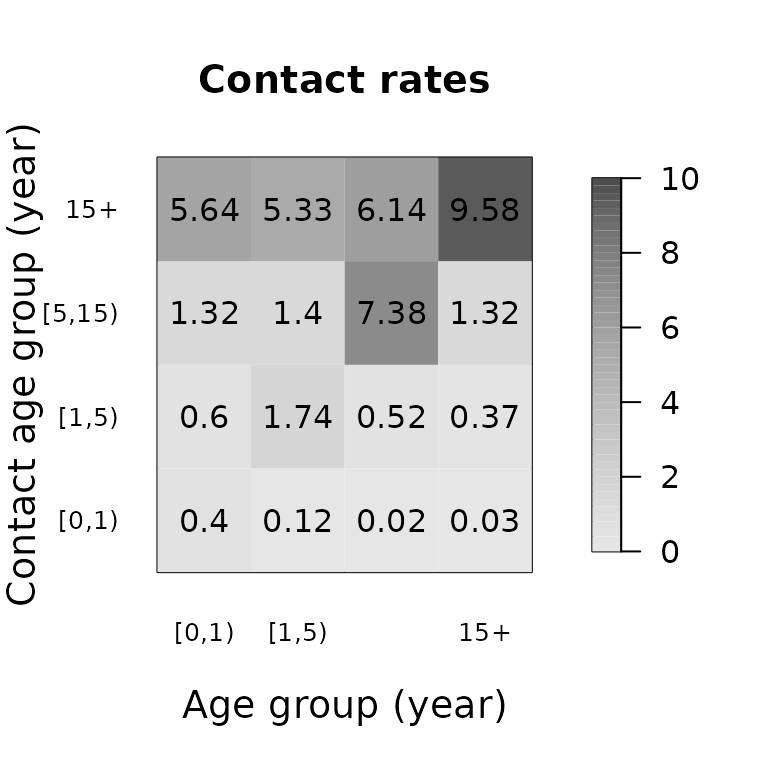
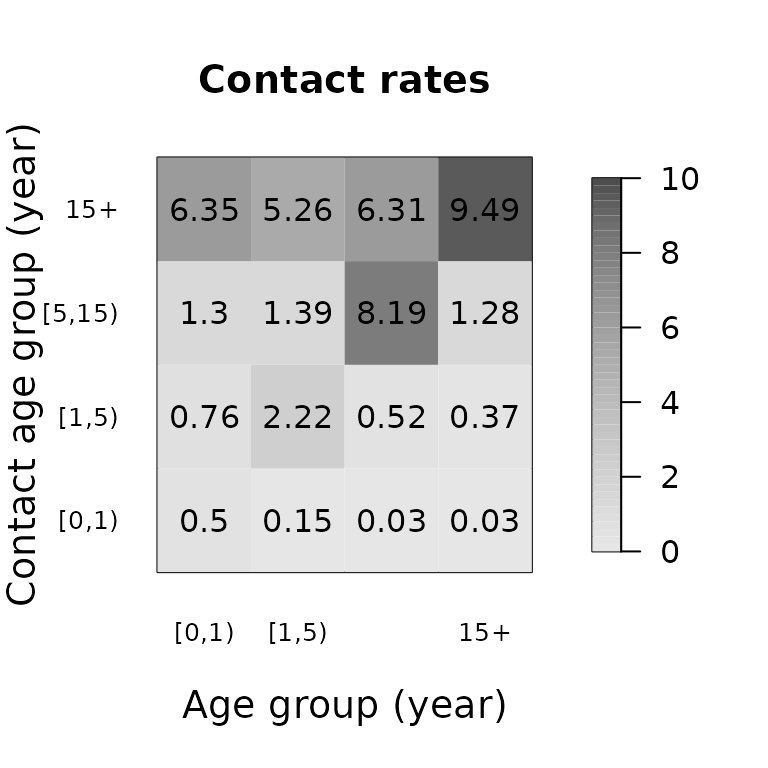
Deploying to gh-pages from @ epiforecasts/socialmixr@10c6d8eac6b71769eb7b5eaee1a3d25b09b19b66 🚀

diff --git a/articles/socialmixr.html b/articles/socialmixr.html
@@ -72,7 +72,7 @@
                         <h4 data-toc-skip class="author">Sebastian
 Funk</h4>
             
-            <h4 data-toc-skip class="date">2024-01-22</h4>
+            <h4 data-toc-skip class="date">2024-01-25</h4>
       
       <small class="dont-index">Source: <a href="https://github.com/epiforecasts/socialmixr/blob/HEAD/vignettes/socialmixr.Rmd" class="external-link"><code>vignettes/socialmixr.Rmd</code></a></small>
       <div class="d-none name"><code>socialmixr.Rmd</code></div>
@@ -118,7 +118,6 @@ using</p>
 <p>An example use would be</p>
 <div class="sourceCode" id="cb7"><pre class="downlit sourceCode r">
 <code class="sourceCode R"><span><span class="fu"><a href="../reference/contact_matrix.html">contact_matrix</a></span><span class="op">(</span><span class="va">polymod</span>, countries <span class="op">=</span> <span class="st">"United Kingdom"</span>, age.limits <span class="op">=</span> <span class="fu"><a href="https://rdrr.io/r/base/c.html" class="external-link">c</a></span><span class="op">(</span><span class="fl">0</span>, <span class="fl">1</span>, <span class="fl">5</span>, <span class="fl">15</span><span class="op">)</span><span class="op">)</span></span>
-<span><span class="co">#&gt; Using POLYMOD social contact data. To cite this in a publication, use the 'get_citation()' function</span></span>
 <span><span class="co">#&gt; Removing participants that have contacts without age information. To change this behaviour, set the 'missing.contact.age' option</span></span>
 <span><span class="co">#&gt; $matrix</span></span>
 <span><span class="co">#&gt;          contact.age.group</span></span>
@@ -211,24 +210,19 @@ be obtained, for example the mean:</p>
 <span>    sample.participants <span class="op">=</span> <span class="cn">TRUE</span></span>
 <span>  <span class="op">)</span></span>
 <span><span class="op">)</span></span>
-<span><span class="co">#&gt; Using POLYMOD social contact data. To cite this in a publication, use the 'get_citation()' function</span></span>
 <span><span class="co">#&gt; Removing participants that have contacts without age information. To change this behaviour, set the 'missing.contact.age' option</span></span>
-<span><span class="co">#&gt; Using POLYMOD social contact data. To cite this in a publication, use the 'get_citation()' function</span></span>
 <span><span class="co">#&gt; Removing participants that have contacts without age information. To change this behaviour, set the 'missing.contact.age' option</span></span>
-<span><span class="co">#&gt; Using POLYMOD social contact data. To cite this in a publication, use the 'get_citation()' function</span></span>
 <span><span class="co">#&gt; Removing participants that have contacts without age information. To change this behaviour, set the 'missing.contact.age' option</span></span>
-<span><span class="co">#&gt; Using POLYMOD social contact data. To cite this in a publication, use the 'get_citation()' function</span></span>
 <span><span class="co">#&gt; Removing participants that have contacts without age information. To change this behaviour, set the 'missing.contact.age' option</span></span>
-<span><span class="co">#&gt; Using POLYMOD social contact data. To cite this in a publication, use the 'get_citation()' function</span></span>
 <span><span class="co">#&gt; Removing participants that have contacts without age information. To change this behaviour, set the 'missing.contact.age' option</span></span>
 <span><span class="va">mr</span> <span class="op">&lt;-</span> <span class="fu"><a href="https://rdrr.io/r/base/funprog.html" class="external-link">Reduce</a></span><span class="op">(</span><span class="st">"+"</span>, <span class="fu"><a href="https://rdrr.io/r/base/lapply.html" class="external-link">lapply</a></span><span class="op">(</span><span class="va">m</span><span class="op">[</span><span class="st">"matrix"</span>, <span class="op">]</span>, <span class="kw">function</span><span class="op">(</span><span class="va">x</span><span class="op">)</span> <span class="va">x</span> <span class="op">/</span> <span class="fu"><a href="https://rdrr.io/r/base/nrow.html" class="external-link">ncol</a></span><span class="op">(</span><span class="va">m</span><span class="op">)</span><span class="op">)</span><span class="op">)</span></span>
 <span><span class="va">mr</span></span>
 <span><span class="co">#&gt;          contact.age.group</span></span>
 <span><span class="co">#&gt; age.group      [0,1)     [1,5)   [5,15)      15+</span></span>
-<span><span class="co">#&gt;    [0,1)  0.40047233 0.5985560 1.322524 5.638421</span></span>
-<span><span class="co">#&gt;    [1,5)  0.12096243 1.7365368 1.396358 5.326786</span></span>
-<span><span class="co">#&gt;    [5,15) 0.01819316 0.5207887 7.383902 6.138165</span></span>
-<span><span class="co">#&gt;    15+    0.02680394 0.3705660 1.321939 9.577358</span></span></code></pre></div>
+<span><span class="co">#&gt;    [0,1)  0.50199792 0.7575980 1.301619 6.347074</span></span>
+<span><span class="co">#&gt;    [1,5)  0.14705727 2.2156738 1.388251 5.264611</span></span>
+<span><span class="co">#&gt;    [5,15) 0.02763151 0.5207851 8.190713 6.305660</span></span>
+<span><span class="co">#&gt;    15+    0.03009622 0.3665507 1.282881 9.491321</span></span></code></pre></div>
 </div>
 <div class="section level2">
 <h2 id="demography">Demography<a class="anchor" aria-label="anchor" href="#demography"></a>
@@ -279,7 +273,6 @@ to obtain a symmetric contact matrix that fulfills it, one can use</p>
 <code><a href="../reference/contact_matrix.html">contact_matrix()</a></code> function.</p>
 <div class="sourceCode" id="cb15"><pre class="downlit sourceCode r">
 <code class="sourceCode R"><span><span class="fu"><a href="../reference/contact_matrix.html">contact_matrix</a></span><span class="op">(</span><span class="va">polymod</span>, countries <span class="op">=</span> <span class="st">"United Kingdom"</span>, age.limits <span class="op">=</span> <span class="fu"><a href="https://rdrr.io/r/base/c.html" class="external-link">c</a></span><span class="op">(</span><span class="fl">0</span>, <span class="fl">1</span>, <span class="fl">5</span>, <span class="fl">15</span><span class="op">)</span>, symmetric <span class="op">=</span> <span class="cn">TRUE</span><span class="op">)</span></span>
-<span><span class="co">#&gt; Using POLYMOD social contact data. To cite this in a publication, use the 'get_citation()' function</span></span>
 <span><span class="co">#&gt; Removing participants that have contacts without age information. To change this behaviour, set the 'missing.contact.age' option</span></span>
 <span><span class="co">#&gt; Warning in pop_age(survey.pop, part.age.group.present, ...): Not all age groups represented in population data (5-year age band).</span></span>
 <span><span class="co">#&gt;   Linearly estimating age group sizes from the 5-year bands.</span></span>
@@ -377,7 +370,6 @@ The components of the matrix are returned as elements
 the resulting list.</p>
 <div class="sourceCode" id="cb17"><pre class="downlit sourceCode r">
 <code class="sourceCode R"><span><span class="fu"><a href="../reference/contact_matrix.html">contact_matrix</a></span><span class="op">(</span><span class="va">polymod</span>, countries <span class="op">=</span> <span class="st">"United Kingdom"</span>, age.limits <span class="op">=</span> <span class="fu"><a href="https://rdrr.io/r/base/c.html" class="external-link">c</a></span><span class="op">(</span><span class="fl">0</span>, <span class="fl">1</span>, <span class="fl">5</span>, <span class="fl">15</span><span class="op">)</span>, split <span class="op">=</span> <span class="cn">TRUE</span><span class="op">)</span></span>
-<span><span class="co">#&gt; Using POLYMOD social contact data. To cite this in a publication, use the 'get_citation()' function</span></span>
 <span><span class="co">#&gt; Removing participants that have contacts without age information. To change this behaviour, set the 'missing.contact.age' option</span></span>
 <span><span class="co">#&gt; Warning in pop_age(survey.pop, part.age.group.present, ...): Not all age groups represented in population data (5-year age band).</span></span>
 <span><span class="co">#&gt;   Linearly estimating age group sizes from the 5-year bands.</span></span>

diff --git a/reference/is_doi.html b/reference/is_doi.html
@@ -1,0 +1,96 @@
+<!DOCTYPE html>
+<!-- Generated by pkgdown: do not edit by hand --><html lang="en"><head><meta http-equiv="Content-Type" content="text/html; charset=UTF-8"><meta charset="utf-8"><meta http-equiv="X-UA-Compatible" content="IE=edge"><meta name="viewport" content="width=device-width, initial-scale=1, shrink-to-fit=no"><meta name="description" content="Checks if a character string is a DOI"><title>Checks if a character string is a DOI — is_doi • socialmixr</title><script src="../deps/jquery-3.6.0/jquery-3.6.0.min.js"></script><meta name="viewport" content="width=device-width, initial-scale=1, shrink-to-fit=no"><link href="../deps/bootstrap-5.3.1/bootstrap.min.css" rel="stylesheet"><script src="../deps/bootstrap-5.3.1/bootstrap.bundle.min.js"></script><!-- Font Awesome icons --><link rel="stylesheet" href="https://cdnjs.cloudflare.com/ajax/libs/font-awesome/5.12.1/css/all.min.css" integrity="sha256-mmgLkCYLUQbXn0B1SRqzHar6dCnv9oZFPEC1g1cwlkk=" crossorigin="anonymous"><link rel="stylesheet" href="https://cdnjs.cloudflare.com/ajax/libs/font-awesome/5.12.1/css/v4-shims.min.css" integrity="sha256-wZjR52fzng1pJHwx4aV2AO3yyTOXrcDW7jBpJtTwVxw=" crossorigin="anonymous"><!-- bootstrap-toc --><script src="https://cdn.jsdelivr.net/gh/afeld/bootstrap-toc@v1.0.1/dist/bootstrap-toc.min.js" integrity="sha256-4veVQbu7//Lk5TSmc7YV48MxtMy98e26cf5MrgZYnwo=" crossorigin="anonymous"></script><!-- headroom.js --><script src="https://cdnjs.cloudflare.com/ajax/libs/headroom/0.11.0/headroom.min.js" integrity="sha256-AsUX4SJE1+yuDu5+mAVzJbuYNPHj/WroHuZ8Ir/CkE0=" crossorigin="anonymous"></script><script src="https://cdnjs.cloudflare.com/ajax/libs/headroom/0.11.0/jQuery.headroom.min.js" integrity="sha256-ZX/yNShbjqsohH1k95liqY9Gd8uOiE1S4vZc+9KQ1K4=" crossorigin="anonymous"></script><!-- clipboard.js --><script src="https://cdnjs.cloudflare.com/ajax/libs/clipboard.js/2.0.6/clipboard.min.js" integrity="sha256-inc5kl9MA1hkeYUt+EC3BhlIgyp/2jDIyBLS6k3UxPI=" crossorigin="anonymous"></script><!-- search --><script src="https://cdnjs.cloudflare.com/ajax/libs/fuse.js/6.4.6/fuse.js" integrity="sha512-zv6Ywkjyktsohkbp9bb45V6tEMoWhzFzXis+LrMehmJZZSys19Yxf1dopHx7WzIKxr5tK2dVcYmaCk2uqdjF4A==" crossorigin="anonymous"></script><script src="https://cdnjs.cloudflare.com/ajax/libs/autocomplete.js/0.38.0/autocomplete.jquery.min.js" integrity="sha512-GU9ayf+66Xx2TmpxqJpliWbT5PiGYxpaG8rfnBEk1LL8l1KGkRShhngwdXK1UgqhAzWpZHSiYPc09/NwDQIGyg==" crossorigin="anonymous"></script><script src="https://cdnjs.cloudflare.com/ajax/libs/mark.js/8.11.1/mark.min.js" integrity="sha512-5CYOlHXGh6QpOFA/TeTylKLWfB3ftPsde7AnmhuitiTX4K5SqCLBeKro6sPS8ilsz1Q4NRx3v8Ko2IBiszzdww==" crossorigin="anonymous"></script><!-- pkgdown --><script src="../pkgdown.js"></script><meta property="og:title" content="Checks if a character string is a DOI — is_doi"><meta property="og:description" content="Checks if a character string is a DOI"><!-- mathjax --><script src="https://cdnjs.cloudflare.com/ajax/libs/mathjax/2.7.5/MathJax.js" integrity="sha256-nvJJv9wWKEm88qvoQl9ekL2J+k/RWIsaSScxxlsrv8k=" crossorigin="anonymous"></script><script src="https://cdnjs.cloudflare.com/ajax/libs/mathjax/2.7.5/config/TeX-AMS-MML_HTMLorMML.js" integrity="sha256-84DKXVJXs0/F8OTMzX4UR909+jtl4G7SPypPavF+GfA=" crossorigin="anonymous"></script><!--[if lt IE 9]>
+<script src="https://oss.maxcdn.com/html5shiv/3.7.3/html5shiv.min.js"></script>
+<script src="https://oss.maxcdn.com/respond/1.4.2/respond.min.js"></script>
+<![endif]--></head><body>
+    <a href="#main" class="visually-hidden-focusable">Skip to contents</a>
+    
+
+    <nav class="navbar fixed-top navbar-light navbar-expand-lg bg-light"><div class="container">
+    
+    <a class="navbar-brand me-2" href="../index.html">socialmixr</a>
+
+    <small class="nav-text text-muted me-auto" data-bs-toggle="tooltip" data-bs-placement="bottom" title="">0.3.1.9000</small>
+
+    
+    <button class="navbar-toggler" type="button" data-bs-toggle="collapse" data-bs-target="#navbar" aria-controls="navbar" aria-expanded="false" aria-label="Toggle navigation">
+      <span class="navbar-toggler-icon"></span>
+    </button>
+
+    <div id="navbar" class="collapse navbar-collapse ms-3">
+      <ul class="navbar-nav me-auto"><li class="nav-item">
+  <a class="nav-link" href="../articles/socialmixr.html">Get started</a>
+</li>
+<li class="active nav-item">
+  <a class="nav-link" href="../reference/index.html">Reference</a>
+</li>
+<li class="nav-item">
+  <a class="nav-link" href="../news/index.html">Changelog</a>
+</li>
+      </ul><form class="form-inline my-2 my-lg-0" role="search">
+        <input type="search" class="form-control me-sm-2" aria-label="Toggle navigation" name="search-input" data-search-index="../search.json" id="search-input" placeholder="Search for" autocomplete="off"></form>
+
+      <ul class="navbar-nav"><li class="nav-item">
+  <a class="external-link nav-link" href="https://github.com/epiforecasts/socialmixr/" aria-label="github">
+    <span class="fab fa fab fa-github fa-lg"></span>
+     
+  </a>
+</li>
+      </ul></div>
+
+    
+  </div>
+</nav><div class="container template-reference-topic">
+<div class="row">
+  <main id="main" class="col-md-9"><div class="page-header">
+      <img src="" class="logo" alt=""><h1>Checks if a character string is a DOI</h1>
+      <small class="dont-index">Source: <a href="https://github.com/epiforecasts/socialmixr/blob/HEAD/R/download_survey.r" class="external-link"><code>R/download_survey.r</code></a></small>
+      <div class="d-none name"><code>is_doi.Rd</code></div>
+    </div>
+
+    <div class="ref-description section level2">
+    <p>Checks if a character string is a DOI</p>
+    </div>
+
+    <div class="section level2">
+    <h2 id="ref-usage">Usage<a class="anchor" aria-label="anchor" href="#ref-usage"></a></h2>
+    <div class="sourceCode"><pre class="sourceCode r"><code><span><span class="fu">is_doi</span><span class="op">(</span><span class="va">x</span><span class="op">)</span></span></code></pre></div>
+    </div>
+
+    <div class="section level2">
+    <h2 id="arguments">Arguments<a class="anchor" aria-label="anchor" href="#arguments"></a></h2>
+    <dl><dt>x</dt>
+<dd><p>Character vector; the string or strings to check</p></dd>
+
+</dl></div>
+    <div class="section level2">
+    <h2 id="value">Value<a class="anchor" aria-label="anchor" href="#value"></a></h2>
+    
+
+<p>Logical; <code>TRUE</code> if <code>x</code> is a DOI, <code>FALSE</code> otherwise</p>
+    </div>
+    <div class="section level2">
+    <h2 id="author">Author<a class="anchor" aria-label="anchor" href="#author"></a></h2>
+    <p>Sebastian Funk</p>
+    </div>
+
+  </main><aside class="col-md-3"><nav id="toc"><h2>On this page</h2>
+    </nav></aside></div>
+
+
+    <footer><div class="pkgdown-footer-left">
+  <p></p><p>Developed by Sebastian Funk, Lander Willem, Hugo Gruson.</p>
+</div>
+
+<div class="pkgdown-footer-right">
+  <p></p><p>Site built with <a href="https://pkgdown.r-lib.org/" class="external-link">pkgdown</a> 2.0.7.</p>
+</div>
+
+    </footer></div>
+
+  
+
+  
+
+  </body></html>
+

diff --git a/news/index.html b/news/index.html
@@ -49,7 +49,18 @@
 
     <div class="section level2">
 <h2 class="pkg-version" data-toc-text="0.3.1.9000" id="socialmixr-0319000">socialmixr 0.3.1.9000<a class="anchor" aria-label="anchor" href="#socialmixr-0319000"></a></h2>
-<ul><li>An error in <code><a href="../reference/list_surveys.html">list_surveys()</a></code> was fixed which stopped this working</li>
+<ul><li><p>An error in <code><a href="../reference/list_surveys.html">list_surveys()</a></code> was fixed which stopped this working</p></li>
+<li>
+<p><code><a href="../reference/contact_matrix.html">contact_matrix()</a></code> was updated to only accept <code>survey</code> objects, not DOIs and matches the documentation. It is still possible to get a contact matrix from a DOI but it is necessary to go through the <code><a href="../reference/get_survey.html">get_survey()</a></code> function.</p>
+<div class="sourceCode" id="cb1"><pre class="downlit sourceCode r">
+<code class="sourceCode R"><span></span>
+<span><span class="co"># No longer works!</span></span>
+<span><span class="fu"><a href="../reference/contact_matrix.html">contact_matrix</a></span><span class="op">(</span><span class="st">"10.5281/zenodo.1095664"</span><span class="op">)</span></span>
+<span></span>
+<span><span class="co"># Recommended workflow</span></span>
+<span><span class="fu"><a href="../reference/get_survey.html">get_survey</a></span><span class="op">(</span><span class="st">"10.5281/zenodo.1095664"</span><span class="op">)</span> <span class="op">|&gt;</span></span>
+<span>  <span class="fu"><a href="../reference/contact_matrix.html">contact_matrix</a></span><span class="op">(</span><span class="op">)</span></span></code></pre></div>
+</li>
 </ul></div>
     <div class="section level2">
 <h2 class="pkg-version" data-toc-text="0.3.1" id="socialmixr-031">socialmixr 0.3.1<a class="anchor" aria-label="anchor" href="#socialmixr-031"></a></h2><p class="text-muted">CRAN release: 2023-10-26</p>

diff --git a/reference/contact_matrix.html b/reference/contact_matrix.html
@@ -195,7 +195,6 @@
     <h2 id="ref-examples">Examples<a class="anchor" aria-label="anchor" href="#ref-examples"></a></h2>
     <div class="sourceCode"><pre class="sourceCode r"><code><span class="r-in"><span><span class="fu"><a href="https://rdrr.io/r/utils/data.html" class="external-link">data</a></span><span class="op">(</span><span class="va">polymod</span><span class="op">)</span></span></span>
 <span class="r-in"><span><span class="fu">contact_matrix</span><span class="op">(</span><span class="va">polymod</span>, countries <span class="op">=</span> <span class="st">"United Kingdom"</span>, age.limits <span class="op">=</span> <span class="fu"><a href="https://rdrr.io/r/base/c.html" class="external-link">c</a></span><span class="op">(</span><span class="fl">0</span>, <span class="fl">1</span>, <span class="fl">5</span>, <span class="fl">15</span><span class="op">)</span><span class="op">)</span></span></span>
-<span class="r-msg co"><span class="r-pr">#&gt;</span> Using POLYMOD social contact data. To cite this in a publication, use the 'get_citation()' function</span>
 <span class="r-msg co"><span class="r-pr">#&gt;</span> Removing participants that have contacts without age information. To change this behaviour, set the 'missing.contact.age' option</span>
 <span class="r-out co"><span class="r-pr">#&gt;</span> $matrix</span>
 <span class="r-out co"><span class="r-pr">#&gt;</span>          contact.age.group</span>

diff --git a/reference/index.html b/reference/index.html
@@ -94,6 +94,11 @@
         <dd>Get a survey, either from its Zenodo repository, a set of files, or a survey variable</dd>
       </dl><dl><dt>
           
+          <code><a href="is_doi.html">is_doi()</a></code> 
+        </dt>
+        <dd>Checks if a character string is a DOI</dd>
+      </dl><dl><dt>
+          
           <code><a href="limits_to_agegroups.html">limits_to_agegroups()</a></code> 
         </dt>
         <dd>Convert lower age limits to age groups.</dd>
